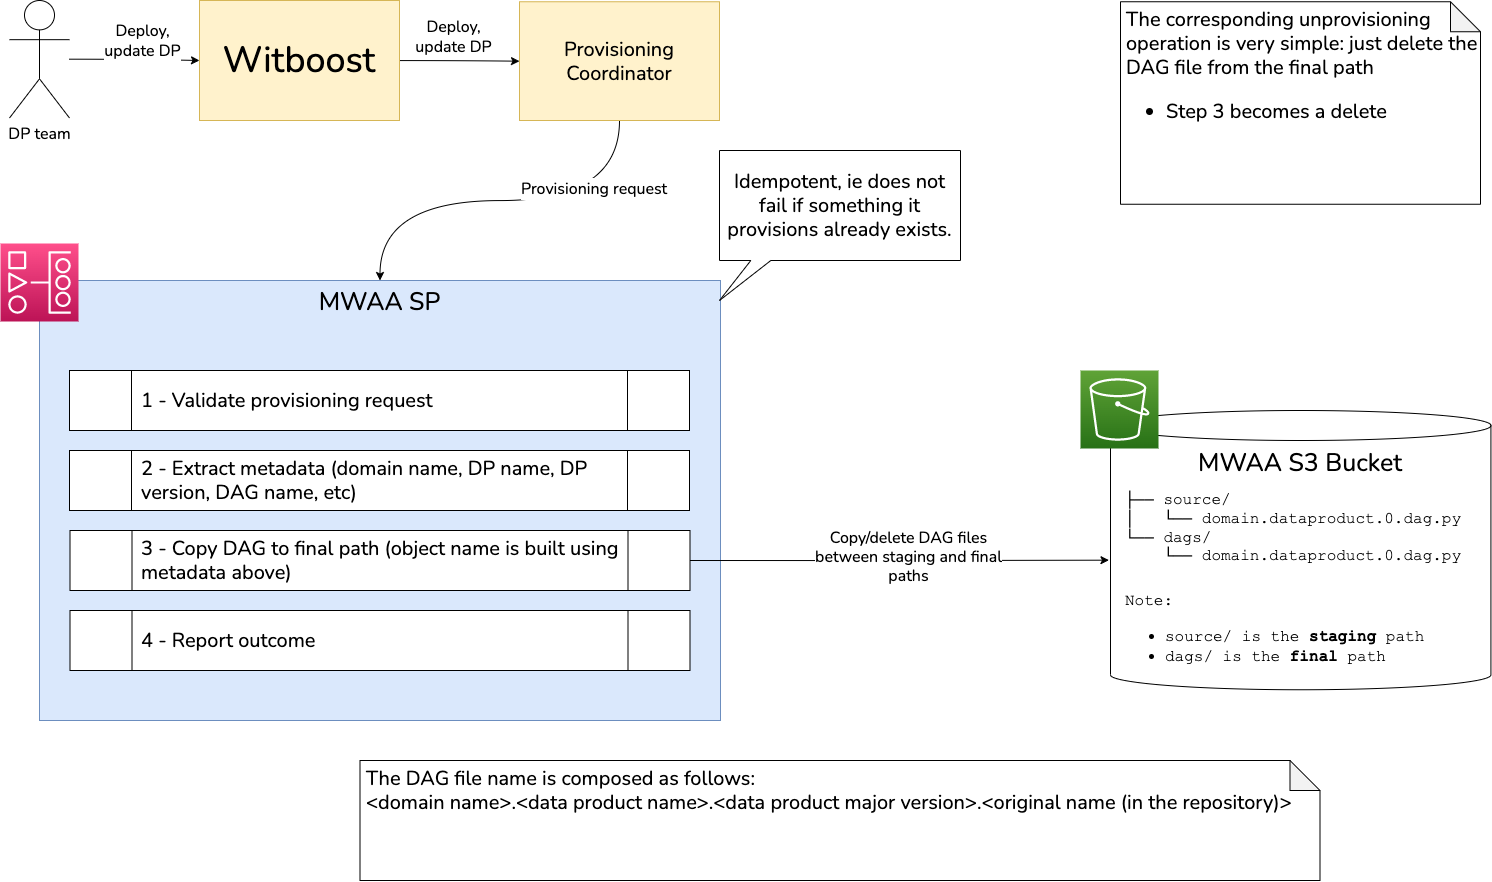
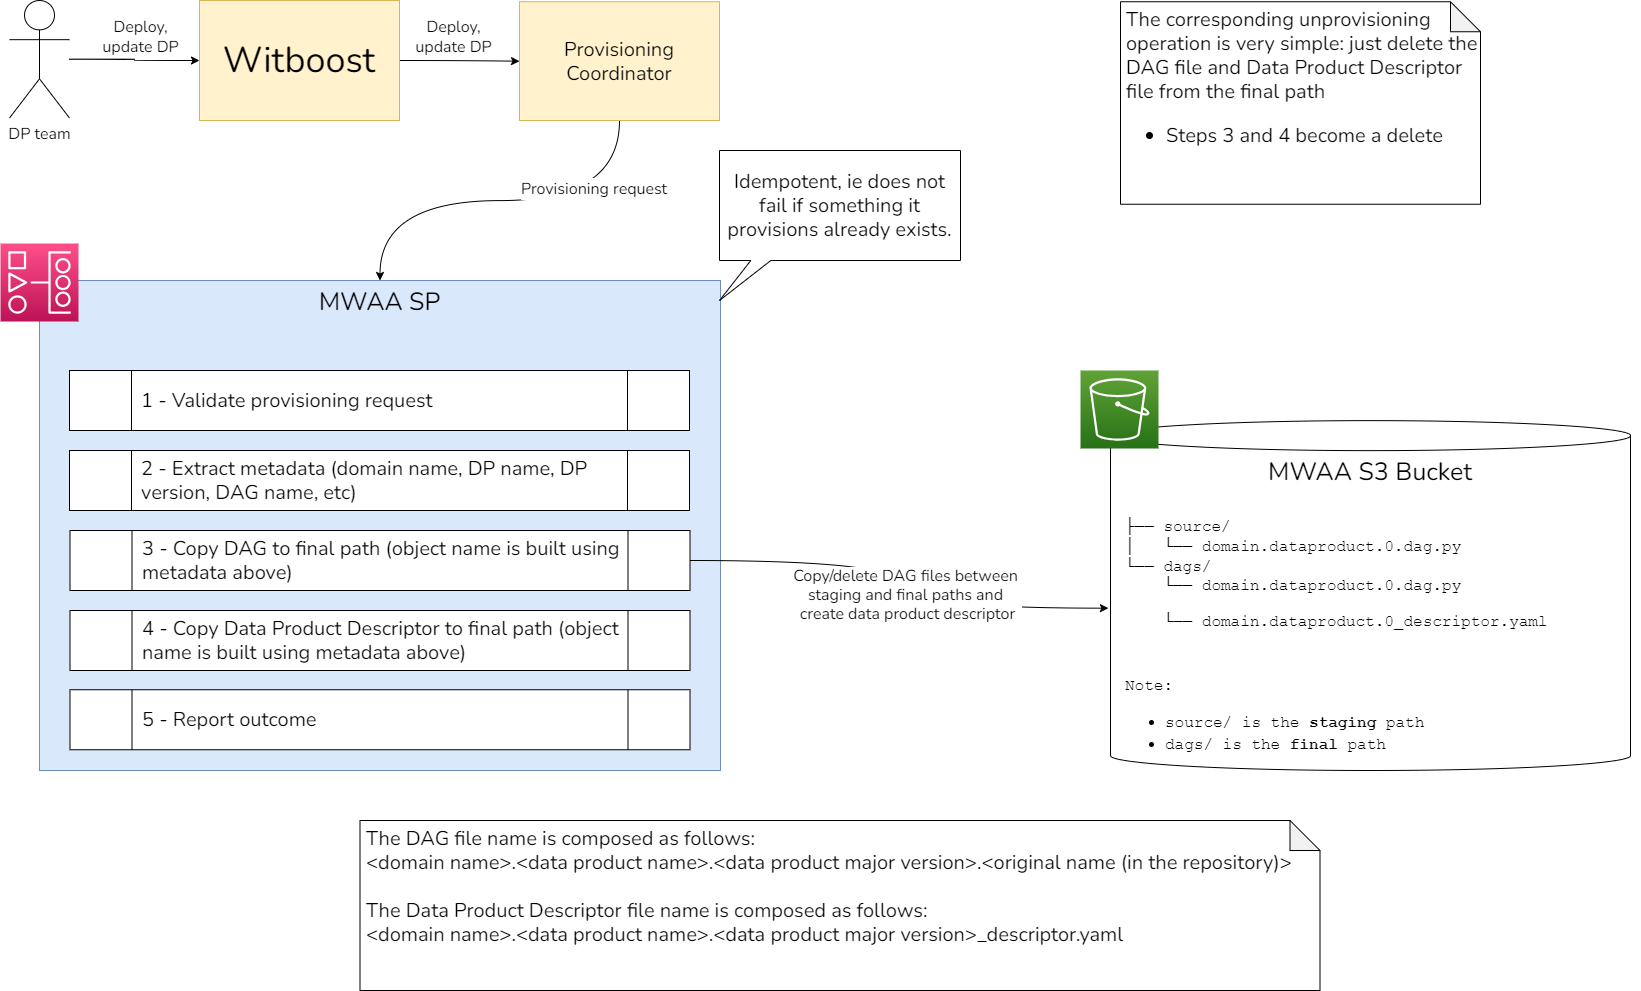
[WIT-2384] Add ability to persist descriptor
# New features and improvements

Added ability to deploy descriptor.yaml in the dags folder on S3. The feature also deletes yaml file in case of unprovision.

# Related issue

Closes #{{issue.iid}}

# Definition of Done for Feature/Hotfixes

## All Developments

- [x] Feature was implemented as per the requirements
- [x] If some code parts are complex they must be commented with code documentation
- [x] CI/CD is successful
- [x] Code coverage is not reduced, any new code is covered
- [x] E2E/integration tests are successful (whether run locally or in CI/CD)
- [x] If dependencies were changed, be sure that they will not impact the project, that their license is compatible, and that they introduce no vulnerabilities
- [x] Documentation have been updated
  * Documentation has been updated with explanation of the new feature if it is user-facing (eg component now has additional setting) or it impacts him in some other way (eg optional field that becomes mandatory)
  * If it is a breaking change, we have documented it as such in the MR description in a "Breaking Changes" section
- [x] Check that you are not affecting any existing environments with these changes, especially the Sandbox/Playground. This means that merging it to master and deploying it to these environments will not break them and **no manual operations that are not reported in the documentation will be needed**
[…]

diff --git a/docs/HLD.md b/docs/HLD.md
@@ -26,13 +26,15 @@ To enable the above orchestration a SP exposes an API made up of five main opera
 
 This Specific Provisioner interacts with a MWAA Environment by updating objects in the corresponding S3 bucket and is able to provision Workloads (Airflow DAGs) used to orchestrate other components in the Data Product.
 
-Every time the DAG code on the component repository is updated by the developer, a CI/CD pipeline is triggered and the DAG file is placed in a staging location with an appropriate prefix. The DAG file name is composed as follows: `<domain name>.<data product name>.<data product major version>.<original name (in the repository)>`. When the deployment of the Data Product (and hence the Workload) is triggered, the Specific Provisioner copies the DAG file from the staging directory into the final directory, where it is picked up by Airflow and loaded.
+Every time the DAG code on the component repository is updated by the developer, a CI/CD pipeline is triggered and the DAG file is placed in a staging location with an appropriate prefix. The DAG file name is composed as follows: `<domain name>.<data product name>.<data product major version>.<original name (in the repository)>`. When the deployment of the Data Product (and hence the Workload) is triggered, the Specific Provisioner copies the DAG file from the staging directory into the final directory, where it is picked up by Airflow and loaded. 
+
+Additionally, the Specific Provisioner also does the same for the Data Product Descriptor file, in order to make it available to the workload.
 
 ![overview](img/overview.png)
 
 ## Workload Provisioning
 
-Workload provisioning/unprovisioning is pretty straightfoward because as stated above the main operation done in this phase is a copy (delete for unprovisioning) between the staging and final directories.
+Workload provisioning/unprovisioning is pretty straightfoward because as stated above the two main operations done in this phase are a copy of the DAG file (delete for unprovisioning) between the staging and final directories and the creation (delete for unprovisioning) of the Data Product Descriptor file.
 
 ![provisioning-unprovisioning](img/provisioning-unprovisioning.png)
 
